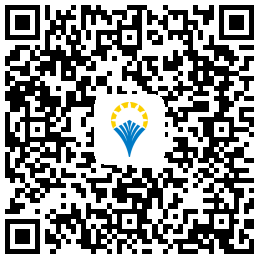
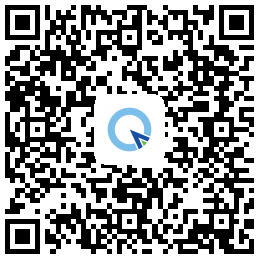
backup

Changed region(s): [[0.4, 0.3692, 0.5846, 0.6154]]

diff --git a/src/components/FooterLink/DownloadIOS.vue b/src/components/FooterLink/DownloadIOS.vue
@@ -1,0 +1,83 @@
+<template>
+<div id="ios-download">
+  <div class="container">
+    <div class="row">
+      <div class="col-md-12">
+        <div class="ios-download-header">
+          <img src="../../assets/img/logo.png">
+          <h2>超级探针APP</h2>
+        </div>
+      </div>
+    </div>
+    <div class="row">
+      <div class="col-md-12">
+        <div class="ios-download-content">
+          <img src="/static/img/home/download-qrcode.png" alt="">
+          <a @click="iosDownload">
+              <i class="icon iconfont">&#xe68c;</i>
+              <span>立即安装</span>
+            </a>
+        </div>
+      </div>
+    </div>
+  </div>
+</div>
+</template>
+
+<script>
+export default {
+  methods: {
+    iosDownload () {
+      window.location.href = ''
+    }
+  }
+}
+</script>
+
+<style lang="less" scoped>
+#ios-download {
+  .mixin-bg(@url: @footerlink-download-bg-url;
+  @height: @common-fullscreenpic-height);
+  .mixin-center;
+
+  img {
+    max-width: 100%;
+  }
+
+  .ios-download-header {
+    h2 {
+      font-size: 2.4rem;
+    }
+
+    img {
+      width: 7rem;
+      border-radius: .8rem;
+    }
+  }
+
+  .ios-download-content {
+    display: flex;
+    flex-direction: column;
+    text-justify: center;
+    align-items: center;
+
+    img {
+      width: 19rem;
+      margin-top: 3rem;
+    }
+
+    a {
+      width: 15rem;
+      line-height: 2rem;
+      border-radius: .8rem;
+      text-decoration: none;
+      color: @common-fs-color;
+      cursor: pointer;
+      padding: .8rem 0;
+      border: .05rem solid @common-fs-color;
+      border-radius: .5rem;
+      margin-top: 1rem;
+    }
+  }
+}
+</style>

diff --git a/src/router/index.js b/src/router/index.js
@@ -12,6 +12,7 @@ import SuprobeContactUs from '@/views/FooterLink/SuprobeContactUs.vue'
 import SuprobeFAQ from '@/views/FooterLink/SuprobeFAQ.vue'
 import SuprobeSalePolicy from '@/views/FooterLink/SuprobeSalePolicy.vue'
 import SuprobeDownload from '@/views/FooterLink/SuprobeDownload.vue'
+import SuprobeDownloadIOS from '@/views/FooterLink/SuprobeDownloadIOS.vue'
 import SuprobeNews from '@/views/FooterLink/SuprobeNews.vue'
 import SuprobeNews1 from '@/views/News/SuprobeNews1.vue'
 import SuprobeNews2 from '@/views/News/SuprobeNews2.vue'
@@ -81,6 +82,11 @@ export default new Router({
       path: '/download',
       name: 'download',
       component: SuprobeDownload
+    },
+    {
+      path: '/downloadios',
+      name: 'downloadios',
+      component: SuprobeDownloadIOS
     },
     {
       path: '/news',

diff --git a/src/views/FooterLink/SuprobeDownloadIOS.vue b/src/views/FooterLink/SuprobeDownloadIOS.vue
@@ -1,0 +1,16 @@
+<template>
+  <download-i-o-s></download-i-o-s>
+</template>
+
+<script>
+import DownloadIOS from '@/components/FooterLink/DownloadIOS.vue'
+export default {
+  components: {
+    DownloadIOS
+  }
+}
+</script>
+
+<style>
+
+</style>
